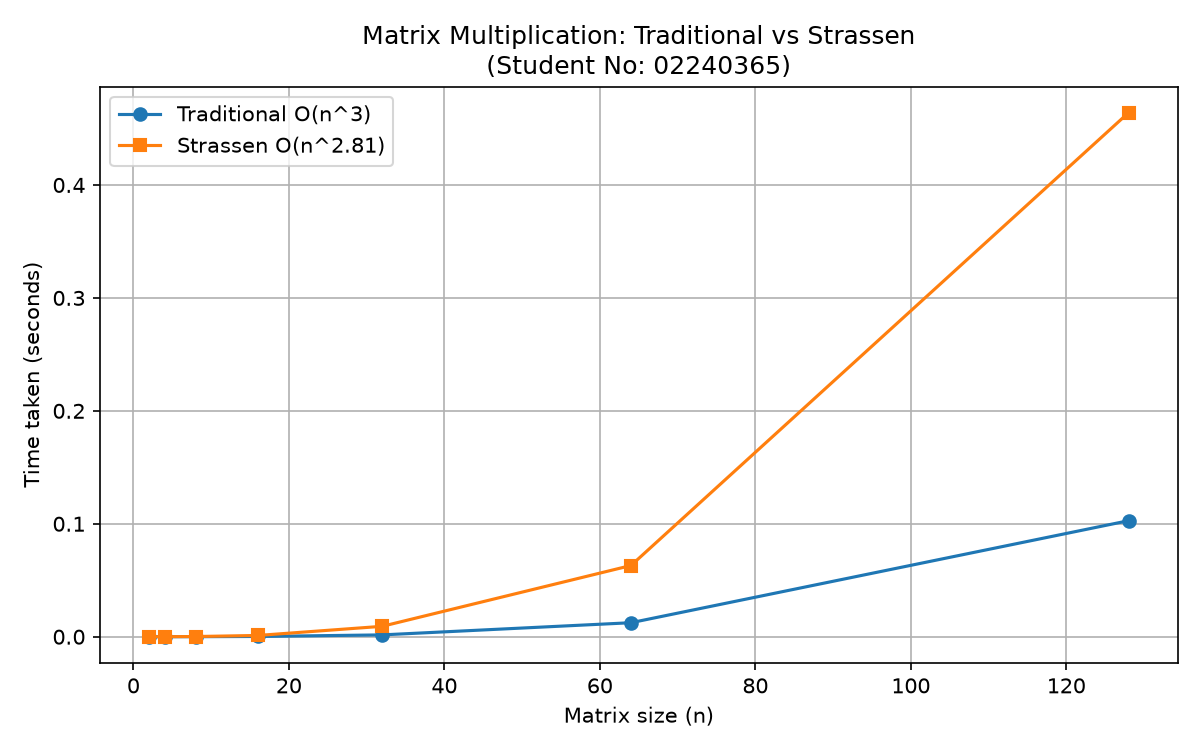
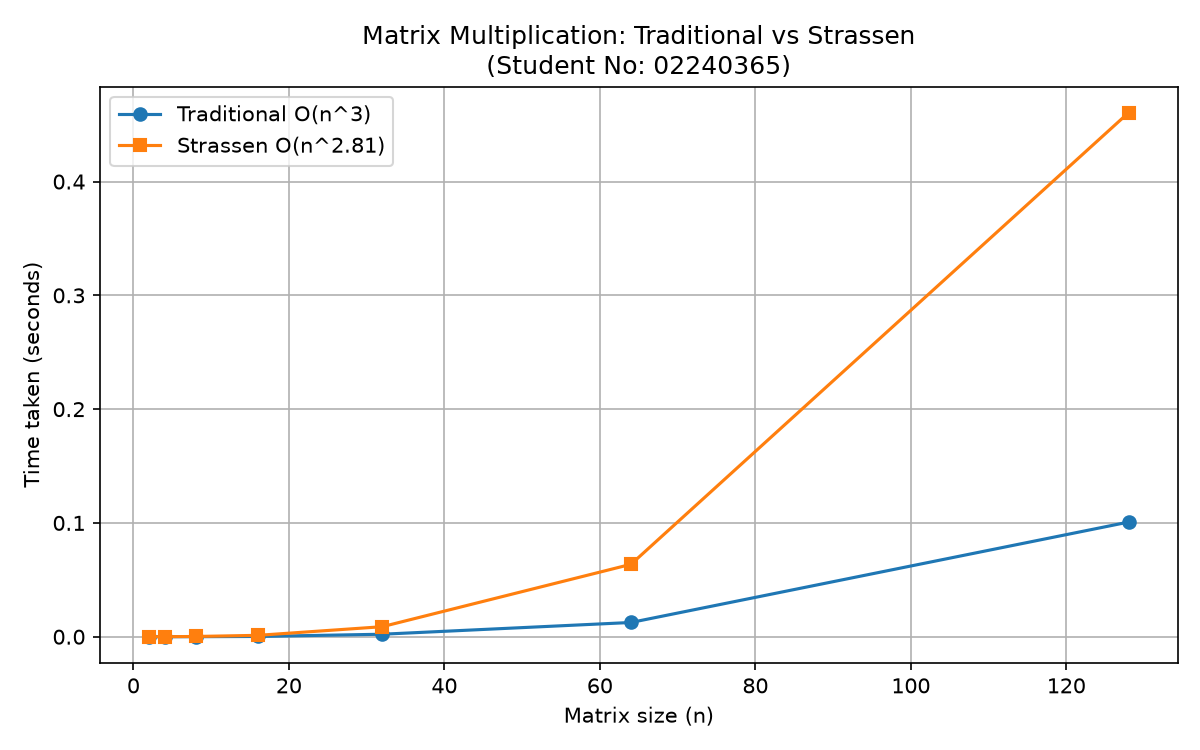
lab3

diff --git a/Lab3_AS26/q1_matrix_mult.py b/Lab3_AS26/q1_matrix_mult.py
@@ -1,5 +1,4 @@
 """
-CSF302 - Lab 3
 Q1: Matrix Multiplication - Strassen's vs Traditional
 
 WHAT THIS PROGRAM DOES
@@ -15,8 +14,6 @@ WHAT THIS PROGRAM DOES
    performed by each method (step/frequency count).
 5. Times both methods on increasing matrix sizes and prints a
    comparison table, then plots a graph (time vs n).
-
-Student No: 02240365
 """
 
 import random

diff --git a/Lab3_AS26/q2_karatsuba.py b/Lab3_AS26/q2_karatsuba.py
@@ -1,5 +1,4 @@
 """
-CSF302 - Lab 3
 Q2: Karatsuba's Algorithm for Large Integer Multiplication
 
 WHAT THIS PROGRAM DOES
@@ -16,8 +15,6 @@ WHAT THIS PROGRAM DOES
    every test case.
 5. Records step counts, times both methods on increasing digit
    lengths (8, 16, 32, ..., 1024) and plots a comparison graph.
-
-Student No: 02240365
 """
 
 import random

diff --git a/Lab3_AS26/q3_search.py b/Lab3_AS26/q3_search.py
@@ -1,5 +1,4 @@
 """
-CSF302 - Lab 3
 Q3: Binary Search vs Ternary Search (Menu-Driven Program)
 
 WHAT THIS PROGRAM DOES
@@ -19,8 +18,6 @@ A menu-driven program that:
 
 Both search functions return (found_index, steps) so every search
 records how many comparisons it made (step/frequency count).
-
-Student No: 02240365
 """
 
 import random
